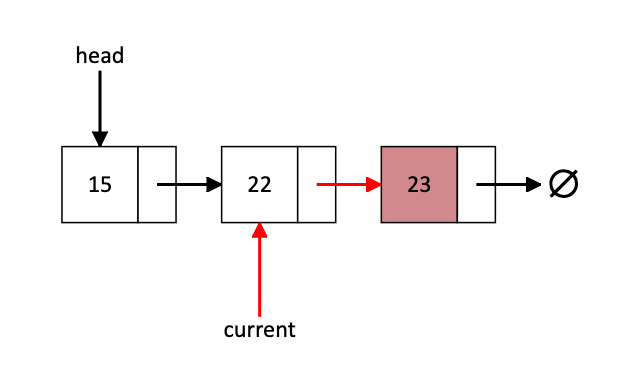
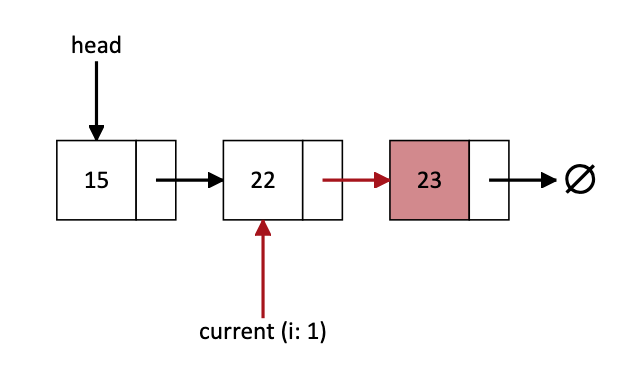
Add configurable styling

Changed region(s): [[0.0919, 0.0882, 0.9806, 0.9118]]

diff --git a/src/static/css/index.css b/src/static/css/index.css
@@ -7,7 +7,53 @@ html {
     left: 0;
     right: 0;
     bottom: 0;
+
+    --primary-background-color: #03a688;
+    --primary-color: white;
+    --primary-background-color-darker-darker: #037b72;
+    --primary-background-color-darker: #038b72;
+    --primary-background-color-lighter: #03a088;
+    --secondary-background-color: #ced0c1;
+    --secondary-color: black;
+    --red: #a6141c;
+    --red-background: #d2898d;
+    --green: #0ca632;
+    --green-background: #85d298;
+    --grey: grey;
+    --grey-background: #b9b9b9;
+
+    --header-background-color: var(--secondary-background-color);
+    --header-color: var(--secondary-color);
+    --pseudocode-highlight-background-color: #b0e2d9;
+    --pseudocode-highlight-background-color-alternate: #b0e2d9aa;
+    --table-background-color: var(--primary-background-color);
+    --table-color: var(--primary-color);
+    --nav-background-color: #80808025;
+    --nav-background-color-hover: #80808029;
+    --nav-background: black;
+
+    --binary-tree-mark-stroke: var(--red);
+    --binary-tree-mark-fill: var(--red-background);
+    --binary-tree-highlight-stroke: var(--green);
+    --binary-tree-highlight-fill: var(--green-background);
+    --binary-tree-lock-stroke: var(--grey);
+    --binary-tree-lock-fill: var(--grey-background);
+
+    --array-mark-background-color: var(--red-background);
+    --array-highlight-background-color: var(--green-background);
+    --array-lock-background-color: var(--grey-background);
+
+    --graph-mark-stroke: var(--green);
+    --graph-mark-fill: var(--green-background);
+    --graph-highlight-stroke: var(--red);
+    --graph-highlight-fill: var(--red-background);
+    --graph-link-highlight: rgba(166, 20, 28, 0.7);
+    --graph-link-mark: rgba(12, 166, 50, 0.7);
+
+    --linked-list-highlight-stroke: var(--red);
+    --linked-list-highlight-fill: var(--red-background);
 }
+
 h1,
 h2 {
     margin: 15px 0 6px 0;
@@ -48,7 +94,7 @@ input[type="range"].slider::-webkit-slider-thumb {
     width: 1.5em;
     height: 2em;
     border-radius: 0;
-    background: #038b72;
+    background: var(--primary-background-color-darker, #038b72);
     border: none;
     box-shadow: 0 0 1px black;
     margin-top: calc(max((2em - 1px - 1px) * 0.5, 0px) - 2em * 0.5);
@@ -63,7 +109,7 @@ input[type="range"].slider::-webkit-slider-runnable-track {
 }
 
 input[type="range"].slider::-webkit-slider-thumb:hover {
-    background: #037b72;
+    background: var(--primary-background-color-darker-darker, #037b72);
 }
 
 input[type="range"].slider:hover::-webkit-slider-runnable-track {
@@ -71,11 +117,12 @@ input[type="range"].slider:hover::-webkit-slider-runnable-track {
 }
 
 input[type="range"].slider.slider-progress::-webkit-slider-runnable-track {
-    background: linear-gradient(#03a688, #03a688) 0 / var(--sx) 100% no-repeat, #b0e2d9;
+    background: linear-gradient(var(--primary-background-color, #03a688), var(--primary-background-color, #03a688)) 0 / var(--sx) 100% no-repeat,
+        #b0e2d9;
 }
 
 input[type="range"].slider.slider-progress:hover::-webkit-slider-runnable-track {
-    background: linear-gradient(#03a088, #03a088) 0 / var(--sx) 100% no-repeat, #a8e0d7;
+    background: linear-gradient(var(--primary-color-lighter, #03a088), var(--primary-color-lighter, #03a088)) 0 / var(--sx) 100% no-repeat, #a8e0d7;
 }
 
 /*mozilla*/
@@ -83,7 +130,7 @@ input[type="range"].slider::-moz-range-thumb {
     width: 1.5em;
     height: 2em;
     border-radius: 0;
-    background: #038b72;
+    background: var(--primary-background-color-darker, #038b72);
     border: none;
     box-shadow: 0 0 1px black;
 }
@@ -97,7 +144,7 @@ input[type="range"].slider::-moz-range-track {
 }
 
 input[type="range"].slider::-moz-range-thumb:hover {
-    background: #037b72;
+    background: var(--primary-background-color-darker-darker, #037b72);
 }
 
 input[type="range"].slider:hover::-moz-range-track {
@@ -105,11 +152,12 @@ input[type="range"].slider:hover::-moz-range-track {
 }
 
 input[type="range"].slider.slider-progress::-moz-range-track {
-    background: linear-gradient(#03a688, #03a688) 0 / var(--sx) 100% no-repeat, #b0e2d9;
+    background: linear-gradient(var(--primary-background-color, #03a688), var(--primary-background-color, #03a688)) 0 / var(--sx) 100% no-repeat,
+        #b0e2d9;
 }
 
 input[type="range"].slider.slider-progress:hover::-moz-range-track {
-    background: linear-gradient(#03a088, #03a088) 0 / var(--sx) 100% no-repeat, #a8e0d7;
+    background: linear-gradient(var(--primary-color-lighter, #03a088), var(--primary-color-lighter, #03a088)) 0 / var(--sx) 100% no-repeat, #a8e0d7;
 }
 
 /*ms*/
@@ -127,7 +175,7 @@ input[type="range"].slider::-ms-thumb {
     width: 1.5em;
     height: 2em;
     border-radius: 0;
-    background: #038b72;
+    background: var(--primary-background-color-darker, #038b72);
     border: none;
     box-shadow: 0 0 1px black;
     margin-top: 0;
@@ -144,7 +192,7 @@ input[type="range"].slider::-ms-track {
 }
 
 input[type="range"].slider::-ms-thumb:hover {
-    background: #037b72;
+    background: var(--primary-background-color-darker-darker, #037b72);
 }
 
 input[type="range"].slider:hover::-ms-track {
@@ -155,11 +203,11 @@ input[type="range"].slider.slider-progress::-ms-fill-lower {
     height: max(calc(2em - 1px - 1px), 0px);
     border-radius: 0px 0 0 0px;
     margin: -1px 0 -1px -1px;
-    background: #03a688;
+    background: var(--primary-background-color, #03a688);
     border: 1px solid #b2b2b2;
     border-right-width: 0;
 }
 
 input[type="range"].slider.slider-progress:hover::-ms-fill-lower {
-    background: #03a088;
+    background: var(--primary-color-lighter, #03a088);
 }

diff --git a/src/static/js/components/LinkedList.js b/src/static/js/components/LinkedList.js
@@ -259,8 +259,8 @@ class LinkedList extends HTMLElement {
             .attr("orient", "auto-start-reverse")
             .append("path")
             .attr("d", "M0,-5L10,0L0,5")
-            .attr("stroke", "red")
-            .attr("fill", "red");
+            .attr("stroke", "#a6141c")
+            .attr("fill", "#a6141c");
 
         this._element = this._g.append("g").selectAll("g");
         this._link = this._g.append("g").selectAll("g");
@@ -465,7 +465,7 @@ class LinkedList extends HTMLElement {
                     height: 100%;
                 }
                 .element--highlight > .element__rect:first-of-type {
-                    fill: #D2898D;
+                    fill: var(--linked-list-highlight-fill, #d2898d);
                 }
                 .element__null {
                     font-size: 2em;
@@ -480,7 +480,7 @@ class LinkedList extends HTMLElement {
                     width: 25px;
                 }
                 .element__head--highlight{
-                    fill: red;
+                    fill: var(--linked-list-highlight-stroke, #a6141c);
                 }
                 .link {
                     fill: none;
@@ -488,10 +488,10 @@ class LinkedList extends HTMLElement {
                     stroke-width: 2px;
                 }
                 .link--highlight {
-                    stroke: red;
+                    stroke: var(--linked-list-highlight-stroke, #a6141c);
                 }
                 .link--current {
-                    stroke: red;
+                    stroke: var(--linked-list-highlight-stroke, #a6141c);
                 }
             </style>
             <div id="container" class="container"></div>

diff --git a/stories/Header.stories.js b/stories/Header.stories.js
@@ -9,8 +9,19 @@ export default {
     title: "Header",
 };
 
-const Template = ({ title, titleBig, heading, description, arrayInput, startBtnName, codeIcon, informationIcon, headerBackgroundColor }) =>
-    `<header-element style="${"--header-background-color:" + headerBackgroundColor}" title="${title}"  ${
+const Template = ({
+    title,
+    titleBig,
+    heading,
+    description,
+    arrayInput,
+    startBtnName,
+    codeIcon,
+    informationIcon,
+    headerBackgroundColor,
+    headerColor,
+}) =>
+    `<header-element style="${`--header-background-color: ${headerBackgroundColor}; --header-color: ${headerColor}`}" title="${title}"  ${
         titleBig ? "title-big" : ""
     } heading="${heading}" description="${description}" ${
         arrayInput ? "array-input" : ""
@@ -25,6 +36,7 @@ VisHeader.args = {
     codeIcon: CodeIcon,
     informationIcon: InformationIcon,
     headerBackgroundColor: "#ced0c1",
+    hederColor: "#000000",
 };
 
 export const VisHeaderSort = Template.bind({});
@@ -37,6 +49,7 @@ VisHeaderSort.args = {
     codeIcon: CodeIcon,
     informationIcon: InformationIcon,
     headerBackgroundColor: "#ced0c1",
+    hederColor: "#000000",
 };
 
 export const TitleHeader = Template.bind({});
@@ -44,6 +57,7 @@ TitleHeader.args = {
     title: "Header with big title",
     titleBig: true,
     headerBackgroundColor: "#ced0c1",
+    hederColor: "#000000",
 };
 
 document.addEventListener("DOMContentLoaded", (e) => {

diff --git a/src/static/js/components/BinaryTree.js b/src/static/js/components/BinaryTree.js
@@ -189,16 +189,16 @@ class BinaryTree extends HTMLElement {
                     stroke-width: 3px;
                 }
                 .node__circle--mark {
-                    stroke: #a6141c;
-                    fill: #D2898D;
+                    stroke: var(--binary-tree-mark-stroke, #a6141c);
+                    fill: var(--binary-tree-mark-fill, #d2898d);
                 }
                 .node__circle--highlight {
-                    stroke: #0ca632;
-                    fill: #85D298;
+                    stroke: var(--binary-tree-highlight-stroke, #0ca632);
+                    fill: var(--binary-tree-highlight-fill, #85d298);
                 }
                 .node__circle--lock {
-                    fill: #B9B9B9;
-                    stroke: grey;
+                    stroke: var(--binary-tree-lock-stroke, grey);
+                    fill: var(--binary-tree-lock-fill, #b9b9b9);
                 }
                 .node__text {
                     font-family: Calibri, Candara, Segoe, "Segoe UI", Optima, Arial, sans-serif;

diff --git a/src/static/js/components/Header.js b/src/static/js/components/Header.js
@@ -62,6 +62,7 @@ class Header extends HTMLElement {
                     background-color: var(--header-background-color, #ced0c1);
                     display: flex;
                     box-shadow: 4px 4px 12px rgba(0, 0, 0, 0.3);
+                    color: var(--header-color, black);
                 }
                 .title {
                     width: 100%;
@@ -96,9 +97,9 @@ class Header extends HTMLElement {
                     justify-content: center;
                 }
                 .panel__button--start {
-                    background-color: #03a688; /* Green */
+                    background-color: var(--primary-background-color, #03a688);
                     border: none;
-                    color: white;
+                    color: var(--primary-color, white);
                     padding: 8px 18px;
                     text-decoration: none;
                     display: inline-block;

diff --git a/src/static/js/components/PseudocodeDisplay.js b/src/static/js/components/PseudocodeDisplay.js
@@ -49,10 +49,10 @@ class PseudocodeDisplay extends HTMLElement {
                     background-color: #80808036;
                 }
                 .code__line--highlighted {
-                    background-color: var(--pseudocode-highlight-background-color, greenyellow) !important;
+                    background-color: var(--pseudocode-highlight-background-color, #b0e2d9) !important;
                 }
                 .code__line--highlighted:nth-child(even) {
-                    background-color: var(--pseudocode-highlight-background-color-alternate, green) !important;
+                    background-color: var(--pseudocode-highlight-background-color-alternate, #b0e2d9aa) !important;
                 }
                 .code__number {
                     margin-right: 1em;

diff --git a/src/static/css/graph-creator.css b/src/static/css/graph-creator.css
@@ -64,12 +64,12 @@ g.conceptG circle {
     stroke-width: 2px;
 }
 g.conceptG.highlight circle {
-    stroke: rgb(166, 20, 28);
-    fill: #d2898d;
+    stroke: var(--graph-highlight-stroke, #a6141c);
+    fill: var(--graph-highlight-fill, #d2898d);
 }
 g.conceptG.mark circle {
-    stroke: rgb(12, 166, 50);
-    fill: #85d298;
+    stroke: var(--graph-mark-stroke, #0ca632);
+    fill: var(--graph-mark-fill, #85d298);
 }
 
 g.conceptG:hover circle {
@@ -106,8 +106,8 @@ path.link.selected {
     stroke: #b0e2d9;
 }
 path.link.highlight {
-    stroke: rgba(166, 20, 28, 0.7);
+    stroke: var(--graph-link-highlight, rgba(166, 20, 28, 0.7));
 }
 path.link.mark {
-    stroke: rgba(12, 166, 50, 0.7);
+    stroke: var(--graph-link-mark, rgba(12, 166, 50, 0.7));
 }

diff --git a/src/static/js/components/ArrayDisplay.js b/src/static/js/components/ArrayDisplay.js
@@ -75,13 +75,13 @@ class ArrayDisplay extends HTMLElement {
                     flex: 1;
                 }
                 .array__element--mark {
-                    background-color: #D2898D;
+                    background-color: var(--array-mark-background-color, #d2898d);
                 }
                 .array__element--highlight {
-                    background-color: #85D298;
+                    background-color: var(--array-highlight-background-color, #85d298);
                 }
                 .array__element--lock {
-                    background-color: #B9B9B9;
+                    background-color: var(--array-lock-background-color, #b9b9b9);
                 }
             </style>
             <div id="array" class="array">${

diff --git a/src/static/js/components/NavItem.js b/src/static/js/components/NavItem.js
@@ -24,10 +24,11 @@ class NavItem extends HTMLElement {
                     border-radius: 8px;
                     padding: 5px 10px;
                     cursor: pointer;
-                    background-color: #80808025;
+                    background-color: var(--nav-background-color, #80808025);
+                    color: var(--nav-color, black);
                 }
                 .container:hover {
-                    background-color: #80808029;
+                    background-color: var(--nav-background-color-hover, #80808029);
                 }
                 a {
                     all: unset;

diff --git a/src/static/js/components/ControlPanel.js b/src/static/js/components/ControlPanel.js
@@ -80,9 +80,9 @@ class ControlPanel extends HTMLElement {
                 .method__button {
                     font-size: 1em;
                     text-align: center;
-                    background-color: #03a688; /* Green */
+                    background-color: var(--primary-background-color, #03a688);
                     border: none;
-                    color: white;
+                    color: var(--primary-color, white);
                     padding: 8px 18px;
                     text-decoration: none;
                     display: inline-block;

diff --git a/src/static/js/components/TableDisplay.js b/src/static/js/components/TableDisplay.js
@@ -84,8 +84,8 @@ class TableDisplay extends HTMLElement {
                     padding-top: 12px;
                     padding-bottom: 12px;
                     text-align: left;
-                    background-color: #03a688;
-                    color: white;
+                    background-color: var(--table-background-color, #03a688);
+                    color: var(--table-color, white);
                 }
             </style>
             <div id="container" class="container"></div>

diff --git a/src/static/js/views/LinkedListView.js b/src/static/js/views/LinkedListView.js
@@ -220,8 +220,6 @@ class LinkedListView extends HTMLElement {
                 }
                 .content__pseudocode {
                     width: 100%;
-                    --pseudocode-highlight-background-color: #b0e2d9;
-                    --pseudocode-highlight-background-color-alternate: #b0e2d9aa;
                 }
                 .content__linked-list {
                     display: inline-block;
